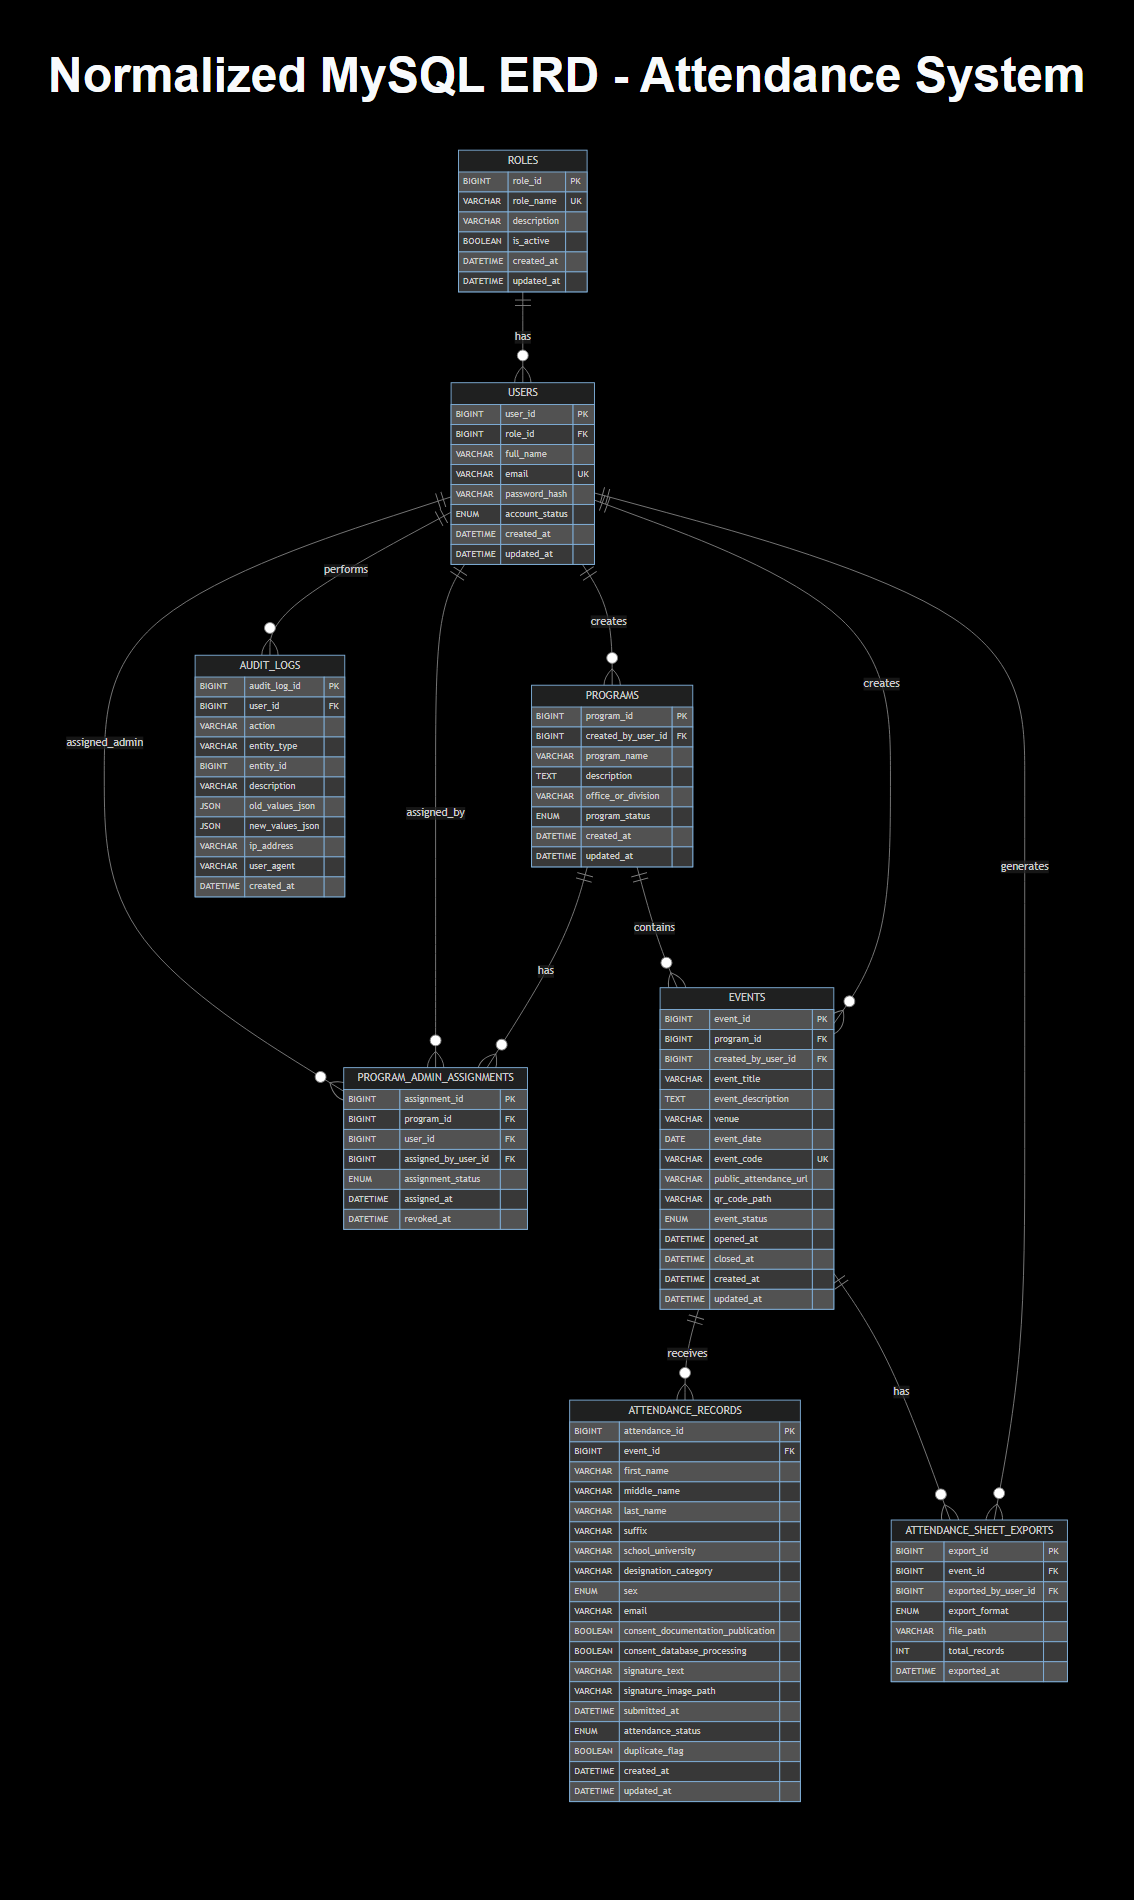
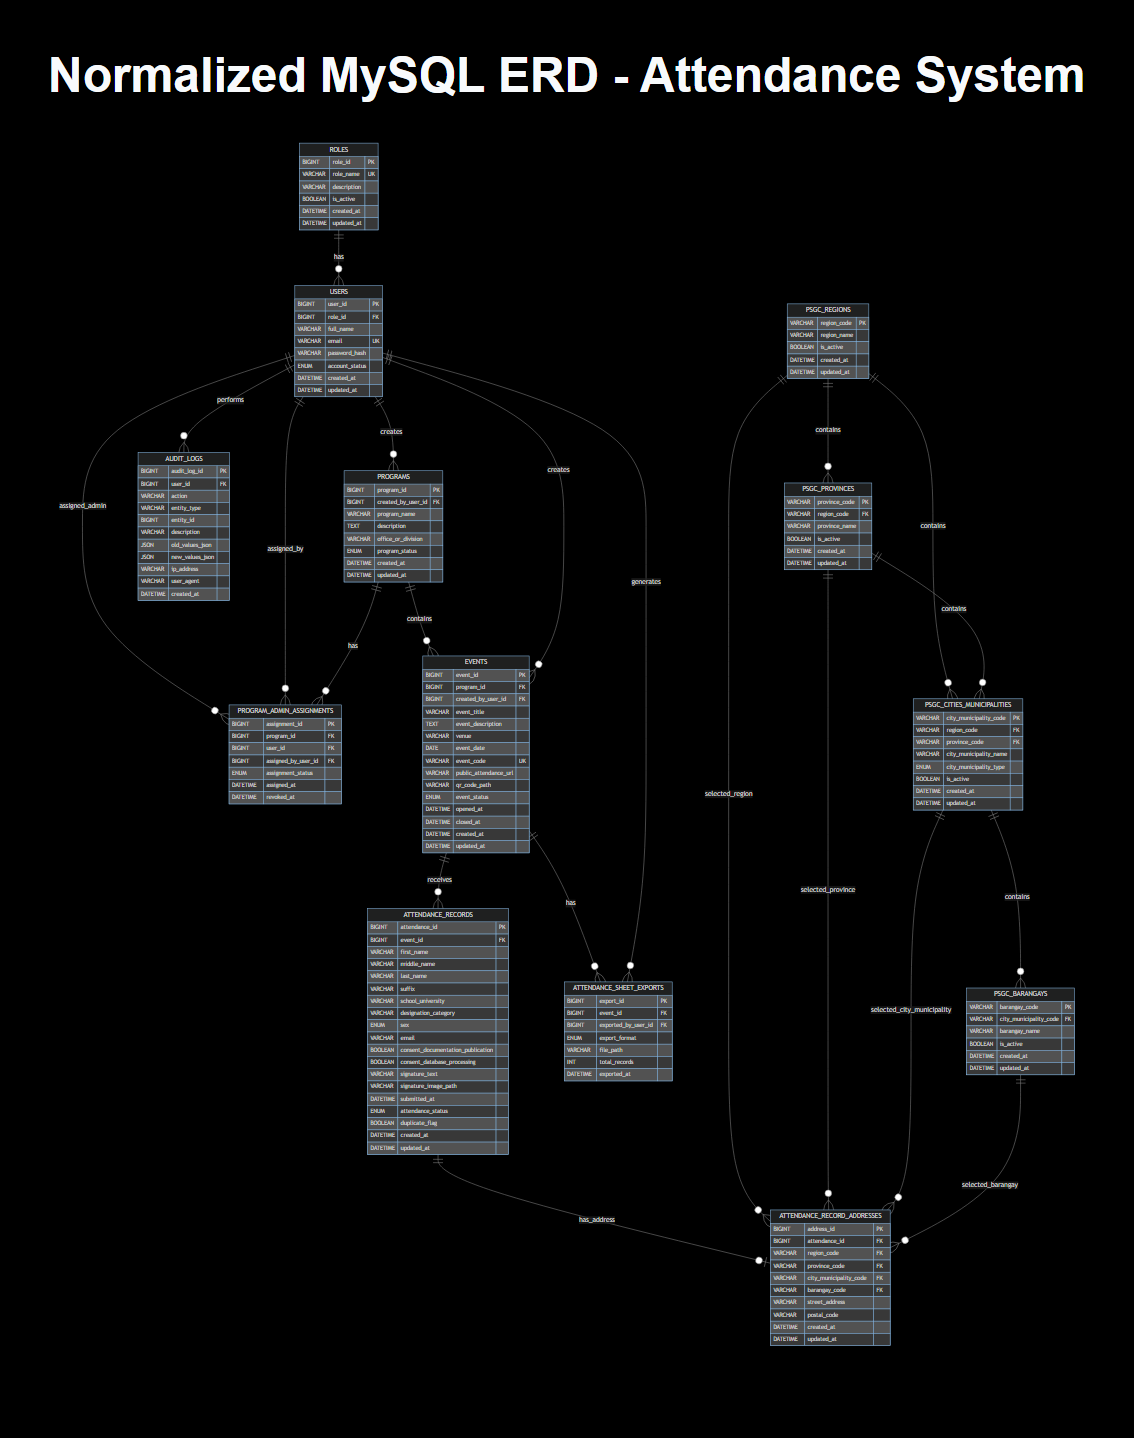
updated erd with psgc address support

diff --git a/others/erd/source/render_erd_drawio.py b/others/erd/source/render_erd_drawio.py
@@ -44,7 +44,7 @@ def add_edge(root: Element, edge_id: str, source: str, target: str, label: str) 
 def main() -> None:
     SOURCE_DIR.mkdir(parents=True, exist_ok=True)
     out = SOURCE_DIR / "attendance-system-erd.drawio"
-    width, height = 1650, 980
+    width, height = 2350, 1250
 
     mxfile = Element("mxfile", host="app.diagrams.net")
     diagram = SubElement(mxfile, "diagram", name="Normalized MySQL ERD - Attendance System")
@@ -143,9 +143,18 @@ def main() -> None:
             "attendance_records",
             ["attendance_id PK", "event_id FK", "first/middle/last/suffix", "school_university", "designation_category", "sex", "email", "consent fields", "signature fields", "attendance_status"],
             1345,
-            90,
+            60,
             270,
             265,
+        ),
+        (
+            "address",
+            "attendance_record_addresses",
+            ["address_id PK", "attendance_id FK", "region_code FK", "province_code FK nullable", "city_municipality_code FK", "barangay_code FK", "street_address", "postal_code"],
+            1660,
+            80,
+            300,
+            245,
         ),
         (
             "exports",
@@ -165,6 +174,42 @@ def main() -> None:
             285,
             235,
         ),
+        (
+            "psgc_regions",
+            "psgc_regions",
+            ["region_code PK", "region_name", "is_active", "created_at", "updated_at"],
+            2020,
+            65,
+            270,
+            150,
+        ),
+        (
+            "psgc_provinces",
+            "psgc_provinces",
+            ["province_code PK", "region_code FK", "province_name", "is_active", "created_at", "updated_at"],
+            2020,
+            275,
+            270,
+            170,
+        ),
+        (
+            "psgc_cities",
+            "psgc_cities_municipalities",
+            ["city_municipality_code PK", "region_code FK", "province_code FK nullable", "city_municipality_name", "city_municipality_type", "is_active"],
+            2020,
+            505,
+            270,
+            190,
+        ),
+        (
+            "psgc_barangays",
+            "psgc_barangays",
+            ["barangay_code PK", "city_municipality_code FK", "barangay_name", "is_active", "created_at", "updated_at"],
+            2020,
+            755,
+            270,
+            170,
+        ),
     ]
 
     for table in tables:
@@ -178,9 +223,18 @@ def main() -> None:
         ("programs", "events", "1:M"),
         ("users", "events", "creates"),
         ("events", "attendance", "1:M"),
+        ("attendance", "address", "0..1"),
         ("events", "exports", "1:M"),
         ("users", "exports", "generates"),
         ("users", "audit", "performs"),
+        ("psgc_regions", "psgc_provinces", "1:M"),
+        ("psgc_regions", "psgc_cities", "1:M"),
+        ("psgc_provinces", "psgc_cities", "1:M"),
+        ("psgc_cities", "psgc_barangays", "1:M"),
+        ("psgc_regions", "address", "region"),
+        ("psgc_provinces", "address", "province"),
+        ("psgc_cities", "address", "city/municipality"),
+        ("psgc_barangays", "address", "barangay"),
     ]
     for index, edge in enumerate(edges, start=1):
         add_edge(root, f"e{index}", *edge)

diff --git a/others/erd/normalized-mysql-erd.md b/others/erd/normalized-mysql-erd.md
@@ -10,7 +10,7 @@ The design avoids one large attendance table. Program data, event data, admin us
 
 ## 2. Core Tables
 
-The MVP database has eight main tables:
+The MVP database has eight core operational tables:
 
 1. `roles`
 2. `users`
@@ -21,7 +21,15 @@ The MVP database has eight main tables:
 7. `attendance_sheet_exports`
 8. `audit_logs`
 
-Optional lookup tables, such as address or PSGC tables, are not included because the provided DICT attendance sheet does not require address fields.
+Because the supervisor mentioned PSGC codes for address handling, the database also includes normalized PSGC/address support tables:
+
+9. `attendance_record_addresses`
+10. `psgc_regions`
+11. `psgc_provinces`
+12. `psgc_cities_municipalities`
+13. `psgc_barangays`
+
+The address tables are separated from the official attendance sheet output. The current DICT attendance sheet template does not print address columns, but the system can still store PSGC-coded address data if the office requires address collection in the public attendance page.
 
 ## 3. Table Design
 
@@ -171,6 +179,80 @@ Stores important admin and system actions.
 | `user_agent` | VARCHAR(500) NULL |  | Optional browser/client info |
 | `created_at` | DATETIME |  | Log timestamp |
 
+### 3.9 attendance_record_addresses
+
+Stores optional address data for a specific attendance submission using PSGC lookup codes. This keeps address data out of `attendance_records` and avoids repeated region/province/city/barangay names.
+
+| Column | Suggested MySQL Type | Key | Notes |
+| --- | --- | --- | --- |
+| `address_id` | BIGINT UNSIGNED AUTO_INCREMENT | PK | Unique address ID |
+| `attendance_id` | BIGINT UNSIGNED | FK -> `attendance_records.attendance_id` | Linked attendance submission |
+| `region_code` | VARCHAR(10) | FK -> `psgc_regions.region_code` | PSGC region code |
+| `province_code` | VARCHAR(10) NULL | FK -> `psgc_provinces.province_code` | Nullable for areas without province-level grouping |
+| `city_municipality_code` | VARCHAR(10) | FK -> `psgc_cities_municipalities.city_municipality_code` | PSGC city/municipality code |
+| `barangay_code` | VARCHAR(10) | FK -> `psgc_barangays.barangay_code` | PSGC barangay code |
+| `street_address` | VARCHAR(255) NULL |  | House no., street, subdivision, purok, etc. |
+| `postal_code` | VARCHAR(10) NULL |  | Optional postal code |
+| `created_at` | DATETIME |  | Creation timestamp |
+| `updated_at` | DATETIME |  | Last update timestamp |
+
+Recommended constraint:
+
+* `UNIQUE(attendance_id)` if each attendance submission should have only one address.
+
+### 3.10 psgc_regions
+
+Stores PSGC region lookup records.
+
+| Column | Suggested MySQL Type | Key | Notes |
+| --- | --- | --- | --- |
+| `region_code` | VARCHAR(10) | PK | Official PSGC region code |
+| `region_name` | VARCHAR(150) |  | Region name |
+| `is_active` | TINYINT(1) |  | 1 active, 0 inactive |
+| `created_at` | DATETIME |  | Creation timestamp |
+| `updated_at` | DATETIME |  | Last update timestamp |
+
+### 3.11 psgc_provinces
+
+Stores PSGC province lookup records.
+
+| Column | Suggested MySQL Type | Key | Notes |
+| --- | --- | --- | --- |
+| `province_code` | VARCHAR(10) | PK | Official PSGC province code |
+| `region_code` | VARCHAR(10) | FK -> `psgc_regions.region_code` | Parent region |
+| `province_name` | VARCHAR(150) |  | Province name |
+| `is_active` | TINYINT(1) |  | 1 active, 0 inactive |
+| `created_at` | DATETIME |  | Creation timestamp |
+| `updated_at` | DATETIME |  | Last update timestamp |
+
+### 3.12 psgc_cities_municipalities
+
+Stores PSGC city/municipality lookup records.
+
+| Column | Suggested MySQL Type | Key | Notes |
+| --- | --- | --- | --- |
+| `city_municipality_code` | VARCHAR(10) | PK | Official PSGC city/municipality code |
+| `region_code` | VARCHAR(10) | FK -> `psgc_regions.region_code` | Parent region |
+| `province_code` | VARCHAR(10) NULL | FK -> `psgc_provinces.province_code` | Nullable where applicable |
+| `city_municipality_name` | VARCHAR(150) |  | City/municipality name |
+| `city_municipality_type` | ENUM('city','municipality') |  | Local government type |
+| `is_active` | TINYINT(1) |  | 1 active, 0 inactive |
+| `created_at` | DATETIME |  | Creation timestamp |
+| `updated_at` | DATETIME |  | Last update timestamp |
+
+### 3.13 psgc_barangays
+
+Stores PSGC barangay lookup records.
+
+| Column | Suggested MySQL Type | Key | Notes |
+| --- | --- | --- | --- |
+| `barangay_code` | VARCHAR(10) | PK | Official PSGC barangay code |
+| `city_municipality_code` | VARCHAR(10) | FK -> `psgc_cities_municipalities.city_municipality_code` | Parent city/municipality |
+| `barangay_name` | VARCHAR(150) |  | Barangay name |
+| `is_active` | TINYINT(1) |  | 1 active, 0 inactive |
+| `created_at` | DATETIME |  | Creation timestamp |
+| `updated_at` | DATETIME |  | Last update timestamp |
+
 ## 4. Main Relationships
 
 * One `role` can be assigned to many `users`.
@@ -183,6 +265,12 @@ Stores important admin and system actions.
 * One `event` can have many `attendance_sheet_exports`.
 * One `user` can generate many `attendance_sheet_exports`.
 * One `user` can have many `audit_logs`.
+* One `attendance_record` can have zero or one `attendance_record_addresses` row.
+* One `psgc_region` can have many `psgc_provinces`.
+* One `psgc_region` can have many `psgc_cities_municipalities`.
+* One `psgc_province` can have many `psgc_cities_municipalities`.
+* One `psgc_city_municipality` can have many `psgc_barangays`.
+* One PSGC lookup row can be referenced by many attendance record addresses.
 
 ## 5. DICT Attendance Sheet Field Mapping
 
@@ -212,6 +300,10 @@ The supervisor-provided template is an output format. It is not imported as a da
 | Consent for organizer database/future processing | `attendance_records.consent_database_processing` | Rendered as checked if yes |
 | Signature | `signature_text` or `signature_image_path` | Optional depending on office decision |
 
+### Address Fields
+
+Address fields are not shown in the current supervisor-provided attendance sheet template. If the public attendance page collects address data, it should be stored in `attendance_record_addresses` using PSGC codes and should not be printed in the official attendance sheet unless the office later changes the template.
+
 ## 6. Normalization Explanation
 
 ### 6.1 First Normal Form
@@ -222,6 +314,7 @@ The design uses atomic fields:
 * One attendance submission is one row in `attendance_records`.
 * One event is one row in `events`.
 * Repeating groups, such as multiple Program Admin assignments, are stored in `program_admin_assignments`.
+* Address parts are stored as PSGC codes, not as repeated free-text region/province/city/barangay names.
 
 ### 6.2 Second Normal Form
 
@@ -230,6 +323,7 @@ The design avoids partial dependency by keeping each table focused on one entity
 * Program fields are stored only in `programs`.
 * Event fields are stored only in `events`.
 * Attendance submission fields are stored only in `attendance_records`.
+* Attendance address fields are stored only in `attendance_record_addresses`.
 * Program Admin assignment data is stored in its own junction table.
 
 Most tables use single-column primary keys. The important business uniqueness rules, such as `UNIQUE(program_id, user_id)` and possible `UNIQUE(event_id, email)`, are handled as separate constraints.
@@ -243,6 +337,8 @@ The design avoids transitive dependency:
 * `program_admin_assignments` does not repeat user or program details. It stores foreign keys.
 * `attendance_sheet_exports` does not duplicate attendance rows. It stores export metadata only.
 * `audit_logs` stores action metadata and references the admin user when applicable.
+* `attendance_record_addresses` does not repeat PSGC names. It stores only PSGC code foreign keys and street-level details.
+* PSGC region, province, city/municipality, and barangay names are stored only in their lookup tables.
 
 This means updates happen in one place. For example, if an event venue is corrected, it is corrected in `events`, not in every attendance row.
 
@@ -270,3 +366,12 @@ After this ERD is approved, create the MySQL SQL schema with:
   * `attendance_sheet_exports.event_id`
   * `audit_logs.user_id`
   * `audit_logs.created_at`
+  * `attendance_record_addresses.attendance_id`
+  * `attendance_record_addresses.region_code`
+  * `attendance_record_addresses.province_code`
+  * `attendance_record_addresses.city_municipality_code`
+  * `attendance_record_addresses.barangay_code`
+  * `psgc_provinces.region_code`
+  * `psgc_cities_municipalities.region_code`
+  * `psgc_cities_municipalities.province_code`
+  * `psgc_barangays.city_municipality_code`

diff --git a/others/mvp-requirements-v1.md b/others/mvp-requirements-v1.md
@@ -208,6 +208,7 @@ Recommended fixed attendance fields:
 * Designation/Category
 * Sex
 * Email Address
+* Address using PSGC codes, if required by office policy
 * Consent for photo/video/audio documentation and possible DICT publication
 * Consent to be included in the organizer's database for future processing of relevant documents
 * Signature field, if the office requires digital signature capture
@@ -400,6 +401,7 @@ The MVP database should include:
 
 Optional only if still required by the office:
 
+* attendance_record_addresses
 * psgc_regions
 * psgc_provinces
 * psgc_cities_municipalities
@@ -407,7 +409,7 @@ Optional only if still required by the office:
 
 PSGC note:
 
-The supervisor-provided attendance sheet template does not include address fields. PSGC should not be forced into the MVP attendance flow unless the supervisor confirms that address collection is still required outside the provided template.
+The supervisor-provided attendance sheet template does not include address fields, so address data should not appear in the generated attendance sheet unless the office later changes the template. However, because PSGC code usage was mentioned as a database requirement, address support should be modeled separately through `attendance_record_addresses` and PSGC lookup tables.
 
 ---
 
@@ -572,7 +574,7 @@ Before implementation, the following should be confirmed:
 1. Should the public attendance form require digital signature capture, or should the signature column remain blank in the generated sheet?
 2. Is email required for every attendee?
 3. Should mobile number be collected even though it is not visible in the provided attendance sheet template?
-4. Is PSGC/address collection still required, or is it removed because the provided template has no address columns?
+4. Should PSGC-based address collection be required on the public attendance page, or supported in the database but hidden unless enabled by office policy?
 5. Should Program Admins be assigned to one program only or multiple programs?
 6. Who is allowed to download official attendance sheets?
 7. What output formats are required: PDF, Excel, CSV, or all?

diff --git a/others/erd/README.md b/others/erd/README.md
@@ -9,6 +9,7 @@ The database design follows the current MVP direction:
 * No Google Forms tables
 * No form-builder tables
 * Fixed attendance fields based on the DICT attendance sheet format
+* PSGC-coded address support in separate normalized lookup/address tables
 * Downloadable attendance sheet generated from stored event and attendance records
 
 ## Main Files
@@ -35,4 +36,4 @@ python others\erd\source\render_erd_drawio.py
 
 ## Important Design Decision
 
-External attendees do not have user accounts in the MVP. Their submitted details are stored per event in `attendance_records`. A separate `attendees` master table is intentionally not included yet because cross-event attendee identity matching is out of scope for the MVP.
+External attendees do not have user accounts in the MVP. Their submitted attendance details are stored per event in `attendance_records`. PSGC-coded address details, if collected, are stored separately in `attendance_record_addresses` and linked to PSGC lookup tables. A separate `attendees` master table is intentionally not included yet because cross-event attendee identity matching is out of scope for the MVP.

diff --git a/others/system-process-flow.md b/others/system-process-flow.md
@@ -198,6 +198,7 @@ Fixed attendance fields:
 * Designation/Category
 * Sex
 * Email Address
+* Address using PSGC codes, if required by office policy
 * Consent for photo/video/audio documentation and possible DICT publication
 * Consent to be included in the organizer's database for future processing of relevant documents
 * Signature, if digital signature capture is required by the office
@@ -307,6 +308,7 @@ The attendance sheet should include the following columns:
 * Designation/Category
 * Sex: F/M
 * Email Address
+* Address using PSGC codes, if required by office policy
 * Consent for photo/video/audio documentation and possible publication
 * Consent for organizer database/future processing
 * Signature